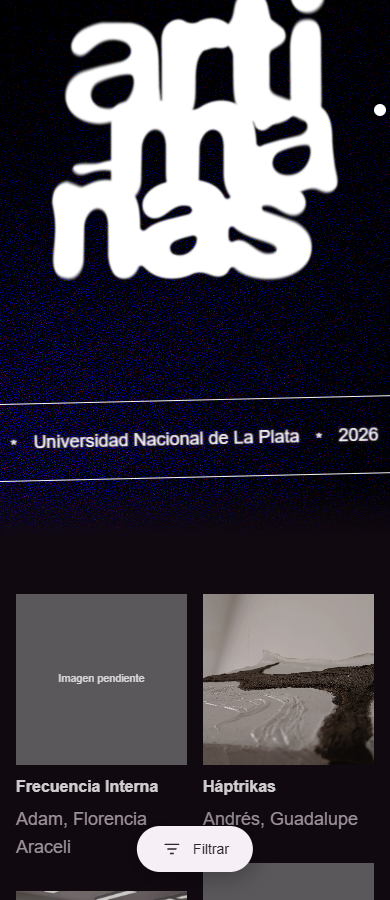
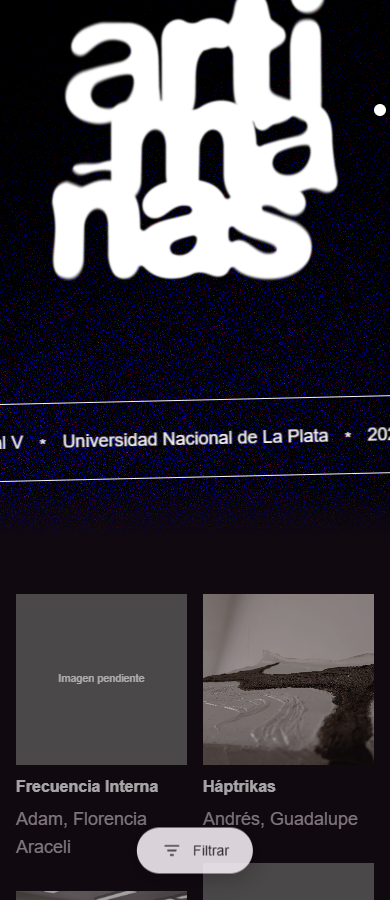
Integrar Frame 38 en portada y fondo Error404

diff --git a/index.html b/index.html
@@ -12,9 +12,9 @@
   <meta property="og:image:width" content="1200"><meta property="og:image:height" content="630">
   <meta property="og:image:alt" content="Artimañas sobre un fondo violeta y naranja">
   <title>Artimañas 2026 · Muestra de arte interactivo</title>
-  <link rel="stylesheet" href="css/base.css?v=33"><link rel="stylesheet" href="css/catalog.css?v=29"><link rel="stylesheet" href="css/overlays.css?v=29">
+  <link rel="stylesheet" href="css/base.css?v=34"><link rel="stylesheet" href="css/catalog.css?v=29"><link rel="stylesheet" href="css/overlays.css?v=29">
   
-<link rel="stylesheet" href="css/hero-layout.css?v=28">
+<link rel="stylesheet" href="css/hero-layout.css?v=29">
 <link rel="stylesheet" href="css/student-links.css?v=31">
 </head>
 <body data-start-page="inicio">
@@ -38,7 +38,7 @@
     <section class="hero" id="inicio" aria-labelledby="home-title" data-shader="loading" data-pointer-follow="false">
       <div id="hero-shader" class="hero-shader" aria-hidden="true" inert></div>
       <div class="hero-center"><p class="eyebrow">Muestra de arte interactivo</p>
-        <h1 id="home-title"><span class="sr-only">Artimañas 2026</span><img class="logo-desktop" src="assets/logo-artimanas.webp" alt="" width="1600" height="306">
+        <h1 id="home-title"><span class="sr-only">Artimañas 2026</span><img class="logo-desktop" src="assets/Frame%2038.png" alt="Muestra de arte interactivo" width="4264" height="990">
           <span class="logo-stacked" aria-hidden="true"><img src="assets/db2568aab0a1.webp" alt=""><img class="ma" src="assets/a8b88c4443cb.webp" alt=""><img class="nas" src="assets/44ceb132ef2d.webp" alt=""></span>
         </h1>
       </div><div class="marquee" aria-hidden="true"><div class="marquee-track"><div class="marquee-group"><span>Taller de Diseño Multimedial V <i>*</i> Universidad Nacional de La Plata <i>*</i> 2026 <i>*</i></span><span>Taller de Diseño Multimedial V <i>*</i> Universidad Nacional de La Plata <i>*</i> 2026 <i>*</i></span></div><div class="marquee-group"><span>Taller de Diseño Multimedial V <i>*</i> Universidad Nacional de La Plata <i>*</i> 2026 <i>*</i></span><span>Taller de Diseño Multimedial V <i>*</i> Universidad Nacional de La Plata <i>*</i> 2026 <i>*</i></span></div></div></div>
@@ -400,7 +400,7 @@ Gracias a la Universidad Nacional de La Plata, la Facultad de Artes y el Laborat
       </div>
     </section>
   </div>
-  <section data-view="404" class="error-view" hidden aria-labelledby="error-title"><img src="assets/footer-orb.webp" alt=""><h1 id="error-title">La página no existe o<br>fue eliminada</h1><a class="pill" href="?pagina=inicio" data-page-link="inicio">Volver al Inicio</a></section>
+  <section data-view="404" class="error-view" hidden aria-labelledby="error-title"><img class="error-background" src="assets/Error404.png" alt="" aria-hidden="true"><h1 id="error-title">La página no existe o<br>fue eliminada</h1><a class="pill" href="?pagina=inicio" data-page-link="inicio">Volver al Inicio</a></section>
   <section data-view="countdown" class="countdown-view" hidden aria-labelledby="countdown-title"><h1 id="countdown-title" class="sr-only">Artimañas 2026 · Cuenta regresiva</h1><img class="countdown-logo" src="assets/logo-artimanas.webp" alt="Artimañas"><p>Muestra de arte interactivo</p>
     <div class="countdown-grid" role="timer" aria-label="Tiempo restante para el 28 de noviembre de 2026 a las 19 horas de Argentina">
       <div class="countdown-cell"><strong id="count-days">00</strong><span>días</span></div><div class="countdown-cell"><strong id="count-hours">00</strong><span>horas</span></div><div class="countdown-cell"><strong id="count-minutes">00</strong><span>minutos</span></div><div class="countdown-cell"><strong id="count-seconds">00</strong><span>segundos</span></div>

diff --git a/css/base.css b/css/base.css
@@ -102,9 +102,9 @@ h1,h2,h3,p {margin-top:0}
 .gallery-item:nth-child(5n+2) {grid-row:span 2}
 .gallery-item:nth-child(5n+2) img {height:624px}
 .gallery-item:hover img {transform:scale(1.035)}
-.error-view {min-height:100svh;background:radial-gradient(ellipse at 50% 115%,#4546c9,transparent 55%);display:flex;align-items:center;justify-content:flex-end;flex-direction:column;text-align:center;padding:120px 24px 90px}
-.error-view img {height:min(52vh,480px);width:auto;object-fit:contain}
-.error-view h1 {font:var(--display-sm);max-width:540px;}
+.error-view {position:relative;isolation:isolate;min-height:100svh;background:var(--surface-0);display:flex;align-items:center;justify-content:center;flex-direction:column;gap:24px;text-align:center;padding:96px 24px 64px}
+.error-view .error-background {position:absolute;inset:0;z-index:-1;width:100%;height:100%;object-fit:cover;pointer-events:none}
+.error-view h1 {font:var(--display-sm);max-width:410px;margin:0;color:var(--text-base)}
 .countdown-view {position:relative;min-height:100svh;background:url('../assets/2ce870dfe47a.webp') center/cover;overflow:hidden;display:flex;align-items:center;flex-direction:column;justify-content:center;padding:100px 24px 210px;text-align:center}
 .countdown-logo {width:min(450px,70vw);margin-bottom:14px}
 .countdown-grid {display:flex;gap:48px;margin:35px 0}

diff --git a/css/hero-layout.css b/css/hero-layout.css
@@ -15,6 +15,10 @@
 }
 .hero h1 {display:grid;place-items:center;width:100%;min-height:0;margin:-24px 0 0}
 .hero .logo-desktop {width:min(1008px,calc(100vw - 160px));height:auto}
+@media(min-width:1101px) {
+ .hero .eyebrow {position:absolute;visibility:hidden}
+ .hero h1 {margin:0}
+}
 .hero .marquee {
  top:var(--band-top);bottom:auto;height:var(--band-height);
  display:flex;align-items:center;padding:24px 0;font:var(--body-lg);transform-origin:top right;
@@ -54,7 +58,7 @@
 @media(max-height:500px) {
  .hero {--band-top:calc(100% - var(--band-height) - 104vw * sin(1.3deg) - 16px);--band-height:58px;height:100svh;height:100dvh;min-height:360px}
  .hero-center {top:88px;left:0;width:100%;height:auto;transform:none}
- .hero .eyebrow {width:294px;height:56px}
+ .hero .eyebrow {position:absolute;visibility:hidden;width:294px;height:56px}
  .hero h1 {position:static;height:auto;margin:0}
  .hero .logo-stacked {display:none}
  .hero .logo-desktop {display:block;width:min(65vw,650px);max-height:140px;object-fit:contain}

diff --git a/QA-2026.md b/QA-2026.md
@@ -46,8 +46,8 @@ Se utilizó Node 24.22.2 disponible con Adobe Creative Cloud y el ejecutable ins
 | --- | --- | --- |
 | G-03 | Parcial. | Tipografía y padding/radio de los alumnos corregidos en la primera tanda. La segunda aplica el margen de 80 px al nav de escritorio. Continúan otros valores fuera de grilla, incluido el padding 28×25 del ticket. |
 | H-01 | Aplicado en la segunda tanda. | Nav de 72 px, margen lateral de 80 px en escritorio, padding de 8 px por ítem y gap de 8 px para el punto de 6×6. Márgenes responsive de 32 y 16 px. |
-| H-02 | Medida CSS aplicada, diferencia de proporción registrada. | Logo de 1008 px, centrado a x=216 en escritorio. El WebP actual de 1600×306 produce altura automática de 192,77 px frente a los 182 px de referencia. Durante la preparación de publicación se agregó Frame 38.png, que contiene el óvalo y el logo juntos. Queda versionado como export de referencia. La portada mantiene la composición separada y la proporción del WebP probado. |
-| H-03 | Parcial por asset faltante. | Caja de 310×77, trazo blanco de 1,5 px, rotación de 2° e interlineado de 28 px. Se mantiene el óvalo CSS hasta disponer del SVG Shape original. En móvil la caja mide 294×77. |
+| H-02 | Aplicado con el export recibido. | La portada de escritorio usa Frame 38.png completo, con ancho de 1008 px y alto automático de 234,03 px. El archivo contiene el óvalo y el logo. Se muestra una sola composición y se conserva su proporción. Tablet y móvil mantienen el logo apilado. |
+| H-03 | Export integrado en escritorio. | El óvalo de escritorio forma parte de Frame 38.png. En tablet y móvil se conserva el óvalo CSS de 310×77 y 294×77 respectivamente. El SVG Shape aislado sigue pendiente para esas variantes. |
 | H-04 | Aplicado en la segunda tanda. | Hero de 900 px en los tres viewports comprobados. Cinta a y=740 en escritorio, con texto 18/28 y asteriscos centrados. Ya existían el asterisco y los dos grupos contiguos del bucle, cuya continuidad se volvió a verificar. |
 | H-13 | Aplicado en la segunda tanda. | Retiradas las sombras estáticas y la emisión inicial del logo, las sombras del óvalo y la capa que oscurecía la portada al mover el cursor o hacer scroll. Fundido localizado debajo de la cinta. ShaderGradient, sus cinco paletas y el seguimiento del cursor desactivado se conservan. |
 | H-05 | Aplicado en la segunda tanda. | El título del catálogo comienza a y=980 con hero de 900 px, dejando los 80 px indicados. |
@@ -74,7 +74,7 @@ Se utilizó Node 24.22.2 disponible con Adobe Creative Cloud y el ejecutable ins
 | F-05 | Pendiente. | Conserva el footer-art de 760 px en escritorio, su esfera y composición actual. |
 | F-06 | Pendiente. | Continúa el emoji de corazón. |
 | F-07 | Parcial preexistente. | El botón flotante ya cambia Filtrar → “Ir arriba” también en escritorio. El informe atribuía esa lógica solo a móvil. El texto, posición, icono y enlace extra aún difieren del QA. |
-| E-01 | Parcial. | Existe ruta interna de error con esfera. Colores y tipografía actualizados globalmente. Faltan fondo Glass, composición centrada y `404.html` propio. El QA pide 40/48 en este ítem, fuera de los seis estilos exigidos por G-02. Se aplicó display/sm 32/40. |
+| E-01 | Fondo recibido e integrado. | La vista interna de error usa Error404.png a pantalla completa, con mensaje blanco y botón centrados. Se comprueban las rutas de obra inexistente y regreso a Inicio a los tres anchos. Sigue pendiente el `404.html` del servidor. Se conserva display/sm 32/40 según G-02. |
 | MT-01 | Parcial preexistente. | Existe favicon PNG de 64 px. Faltan los tamaños 16, 32 y 512 con sus enlaces. |
 | MT-02 | Pendiente de cotejo visual con el export original. | La página conserva el JPG OG señalado por el QA y su texto alternativo anterior. No se sustituyó el asset por otro sin el export original. |
 | MT-03 | Parcial. | Ya estaban dimensiones y alt de OG. Theme-color corregido por G-01. Siguen pendientes URL absoluta de imagen, og:url y twitter:card. No se verificó la presentación en redes externas. |
@@ -88,7 +88,7 @@ Se utilizó Node 24.22.2 disponible con Adobe Creative Cloud y el ejecutable ins
 | TB-03 (T-03) | Parcial preexistente. Ya mostraba la cantidad de filtros. Colores actualizados por G-01. Siguen altura de 46 px e icono de tres líneas. |
 | TB-04 (T-LG) | Pendiente. Descripción completa desplazable, sin corte ni “Leer más”. |
 | TB-05 (T-VA) | Parcial preexistente. Ya cambia a “Ir arriba”. Persisten diferencias de texto, icono, posición y enlace adicional. |
-| TB-06 (T-404) | Parcial por cambios globales. Persiste la esfera y el bloque inferior. Se usa 32/40 de G-02, mientras este ítem pide display/md 40/48. |
+| TB-06 (T-404) | Fondo Error404.png integrado y contenido centrado. Se usa 32/40 de G-02, mientras este ítem pide display/md 40/48. |
 | TB-07 (T-NG) | Decisión vigente ya resuelta y verificada. Galería sigue visible conforme al usuario, en lugar de ocultarse como pide este ítem. |
 | TB-08 (T-04) | Galería vacía. Se conserva el mensaje vigente. Las proporciones/gaps de una grilla con fotos no se pueden verificar visualmente con el contenido actual. |
 | TB-09 (T-05) | Pendiente. Ticket y Maps sin Nº 680, posiciones existentes. |
@@ -107,7 +107,7 @@ Se utilizó Node 24.22.2 disponible con Adobe Creative Cloud y el ejecutable ins
 | MB-08 (M-OB) | Parcial. Título 28/36, descripción 16/24 blanca y datos 14/20 actualizados globalmente. Conserva imagen contenida con márgenes, contador superior, cierre existente y ausencia de descarga de imagen. |
 | MB-09 (M-LG) | Pendiente. Descripción completa, sin corte ni “Leer más”. |
 | MB-10 (M-VA) | Parcial preexistente. Ya existe la alternancia Filtrar/Ir arriba. Texto, icono, dimensiones y enlace adicional pendientes. |
-| MB-11 (M-404) | Parcial. Tipografía 32/40 y colores actualizados. Persisten esfera y bloque inferior. |
+| MB-11 (M-404) | Fondo Error404.png integrado y contenido centrado, con tipografía 32/40. Imagen, mensaje y botón de regreso comprobados a 390 px. |
 | MB-12 (M-GA) | Galería vacía. Se conserva el mensaje vigente. No hay grilla con fotos para contrastar proporciones. |
 | MB-13 (M-IM) | Sin fotos para verificar la interacción. Conserva el diálogo residual sin descarga ni navegación swipe. |
 | MB-14 (M-MU) | Pendiente. Ticket y Maps sin Nº 680 y posiciones locales actuales. |
@@ -119,8 +119,8 @@ Se comparó el estado local posterior a la primera tanda con los valores del QA 
 | ID | Antes local | Aplicado | Pendiente |
 | --- | --- | --- | --- |
 | H-01 | Nav de 76 px, margen de unos 28,8 px en escritorio, padding 12×0 y gap de 10 px para el punto. | Nav de 72 px, margen de 80 px, padding vertical de 16 px y padding de 8 px por enlace. Texto a x=88. Punto de 6×6 con gap de 8 px. Márgenes responsive de 32 px en tablet y 16 px en móvil. | Ninguno de este ítem. |
-| H-02 | Logo de 1100×210,38 a x=170. | Ancho de 1008 px, centrado a x=216, con altura automática. | El WebP actual tiene proporción 1600×306 y resulta en 192,77 px de alto. El nuevo Frame 38.png contiene el óvalo y el logo juntos y queda versionado como referencia. La integración de ese export compuesto y la coincidencia exacta con los 182 px quedan pendientes. |
-| H-03 | Óvalo CSS de unos 291×54 en escritorio y 263×48 en tablet/móvil, con trazo de 1 px. El texto ya estaba en 18/28 y la rotación de 2° ya existía. | Caja de 310×77, trazo blanco de 1,5 px y rotación de 2°. Caja móvil de 294×77. | Falta el SVG original Shape para igualar su contorno vectorial. El óvalo CSS es una aproximación identificada. |
+| H-02 | Logo de 1100×210,38 a x=170. | Export Frame 38.png integrado en escritorio, con ancho de 1008 px, centrado a x=216 y altura automática de 234,03 px para la composición completa de óvalo y logo. | Ninguno para la integración del archivo recibido. |
+| H-03 | Óvalo CSS de unos 291×54 en escritorio y 263×48 en tablet/móvil, con trazo de 1 px. El texto ya estaba en 18/28 y la rotación de 2° ya existía. | En escritorio se muestra el óvalo del export Frame 38.png. En tablet y móvil permanecen las cajas CSS de 310×77 y 294×77 con trazo de 1,5 px y rotación de 2°. | SVG Shape aislado para las variantes apiladas. |
 | H-04 | Hero de 810 px en los tres viewports de prueba. Cinta a y≈707,02 en escritorio. El texto ya estaba en 18/28 y ya existían los asteriscos y las dos copias contiguas del bucle. | Hero de 900 px en los viewports comprobados, cinta a y=740 en escritorio, centrado vertical de texto y asteriscos. El origen de rotación superior derecho conserva la coordenada y indicada. El bucle continuo se conserva y verifica durante el scroll. | Ninguno de este ítem a los tamaños comprobados. |
 | H-05 | Título del catálogo a y=842, con 32 px después del hero. | Título a y=980, con 80 px después del hero de 900 px. | Ninguno de este ítem. |
 | H-13 | Sombras del logo y del óvalo, emisión inicial del logo y oscurecido estático/dinámico sobre la portada. | Sombras y emisión inicial retiradas. El fundido empieza debajo de toda la cinta inclinada. ShaderGradient sigue activo y animado. Los archivos del shader conservan sus hashes y el seguimiento del cursor sigue en false. | Ninguno de este ítem. |
@@ -149,6 +149,6 @@ Las dimensiones del óvalo son las de su caja antes de rotar. Las coordenadas de
 ### Exports identificados
 
 - SVG del elemento Shape del óvalo del hero, en su tamaño de referencia 310×77. Su variante móvil se aplica en caja 294×77. El repositorio solo contiene el SVG del placeholder de imagen, que cumple otra función.
-- Se recibió `assets/Frame 38.png` durante la preparación de la publicación. Incluye óvalo y logo en una sola imagen y queda incluido en Git. La portada probada sigue usando los elementos separados y el WebP anterior con altura automática de 192,77 px. La integración del export compuesto queda registrada en H-02.
+- `assets/Frame 38.png` quedó integrado en la portada de escritorio como imagen completa con óvalo y logo. El óvalo CSS se oculta en esa variante y el texto accesible se conserva en el título y en el alt de la imagen.
 
-La publicación incluye también `assets/Error404.png`, agregado al proyecto durante esta tanda. Su integración en la vista 404 corresponde al ítem E-01. La compilación limpia la carpeta generada `dist` antes de copiar los archivos actuales para evitar conservar assets de revisiones anteriores.
+`assets/Error404.png` quedó integrado como fondo de la vista de error a 1440, 768 y 390 px. La imagen ocupa la pantalla con object-fit cover y el contenido permite regresar a Inicio. La compilación limpia la carpeta generada `dist` antes de copiar los archivos actuales para evitar conservar assets de revisiones anteriores.
